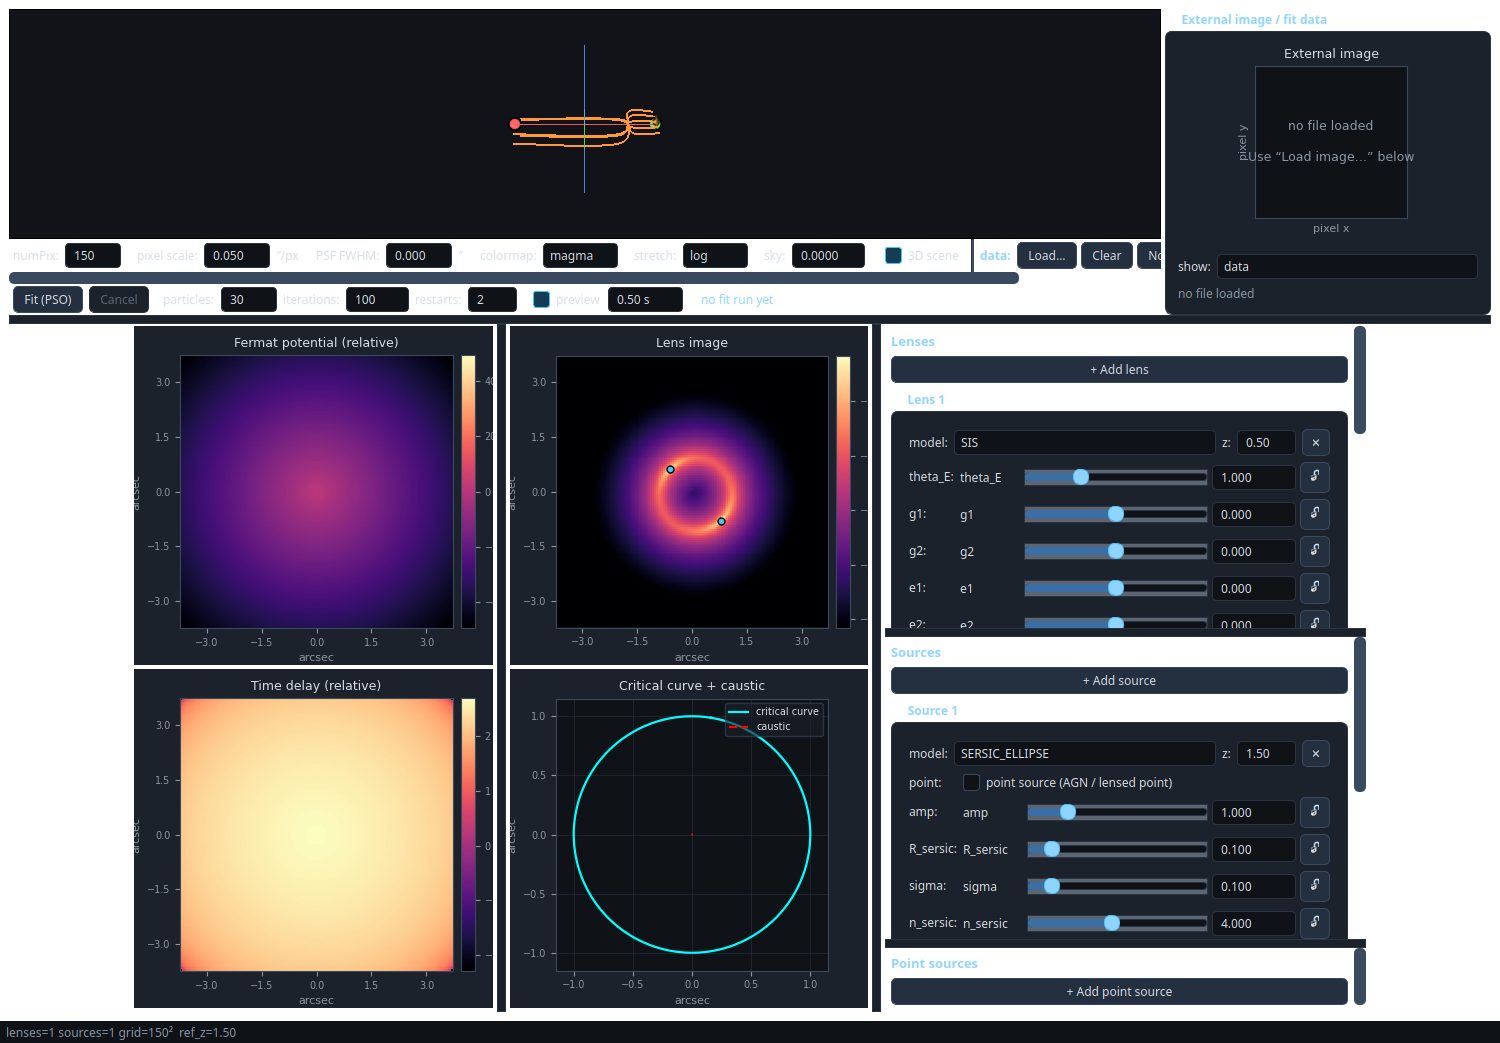
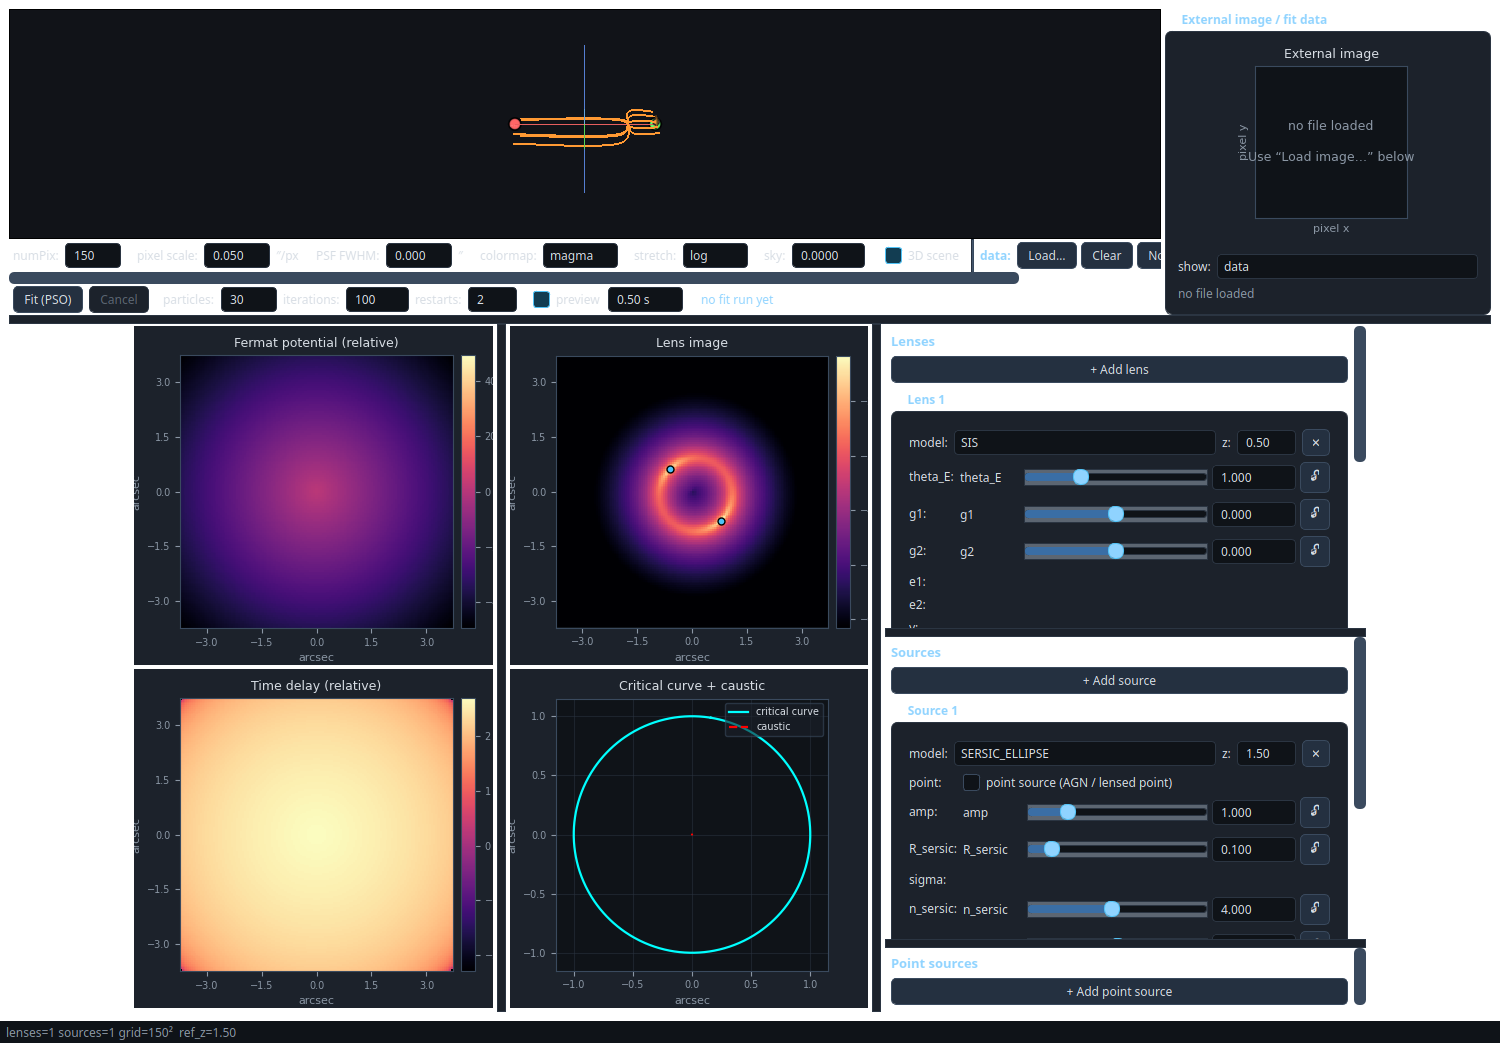
UI: show only the sliders a given model uses
- lensing_calc: lens_param_names()/source_param_names() authoritative mappings
  (external shear + centroid always shown; profile params follow the model)
- Lens/Source cards hide irrelevant sliders on model switch (values preserved);
  deflector-light sliders follow the light profile and hide when NONE
- point-source card hides the unused amplitude slider instead of greying it
- tests: mapping + visibility toggling; full suite 140 passing

diff --git a/app/controls.py b/app/controls.py
@@ -312,15 +312,33 @@ class _LensCard(_EntryCard):
         self.add_slider("light_e1", "L e1", -0.8, 0.8, lens.light_e1, 2)
         self.add_slider("light_e2", "L e2", -0.8, 0.8, lens.light_e2, 2)
 
-        self._light_combo.currentTextChanged.connect(self._sync_light_enabled)
-        self._sync_light_enabled()
+        self._light_combo.currentTextChanged.connect(self._sync_visibility)
+        self._model_combo.currentTextChanged.connect(self._sync_visibility)
+        self._sync_visibility()
 
-    def _sync_light_enabled(self, *a):
-        """Grey out the light sliders when the lens emits no light."""
-        on = self._light_combo.currentText() != "NONE"
-        for name in ("light_amp", "light_R_sersic", "light_n_sersic",
-                     "light_sigma", "light_e1", "light_e2"):
-            self.sliders[name].setEnabled(on)
+    def _light_visible_names(self) -> set:
+        """Light sliders relevant to the current lens-light model."""
+        lm = self._light_combo.currentText()
+        if lm == "NONE":
+            return set()
+        if lm.startswith("GAUSSIAN"):
+            vis = {"light_amp", "light_sigma"}
+            if lm == "GAUSSIAN_ELLIPSE":
+                vis |= {"light_e1", "light_e2"}
+        else:  # SERSIC / SERSIC_ELLIPSE
+            vis = {"light_amp", "light_R_sersic", "light_n_sersic"}
+            if lm == "SERSIC_ELLIPSE":
+                vis |= {"light_e1", "light_e2"}
+        return vis
+
+    def _sync_visibility(self, *a):
+        """Show only the sliders that the current lens / light model uses."""
+        mass = lc.lens_param_names(self.model())
+        light = self._light_visible_names()
+        for name, s in self.sliders.items():
+            s.setVisible(name in mass or name in light)
+            if name.startswith("light_"):
+                s.setEnabled(name in light)   # hidden *and* inert when unused
 
     def light_model(self) -> str:
         return self._light_combo.currentText()
@@ -377,6 +395,15 @@ class _SourceCard(_EntryCard):
         self.add_slider("gamma", "γ", 0.1, 4.0, source.gamma, 2)
         self.add_slider("center_x", "x", -2.0, 2.0, source.center_x, 2)
         self.add_slider("center_y", "y", -2.0, 2.0, source.center_y, 2)
+
+        # Show only the sliders relevant to the current source profile.
+        self._model_combo.currentTextChanged.connect(self._sync_visibility)
+        self._sync_visibility()
+
+    def _sync_visibility(self, *a):
+        names = lc.source_param_names(self.model())
+        for name, s in self.sliders.items():
+            s.setVisible(name in names)
 
     def to_params(self) -> lc.SourceParams:
         s = self.sliders
@@ -474,8 +501,8 @@ class _PointSourceCard(_EntryCard):
 
     def _sync_model(self, *a):
         lensed = self._model_combo.currentText() == "LENSED"
-        self.sliders["source_amp"].setEnabled(lensed)
-        self.sliders["point_amp"].setEnabled(not lensed)
+        self.sliders["source_amp"].setVisible(lensed)
+        self.sliders["point_amp"].setVisible(not lensed)
 
     def to_params(self) -> lc.PointSourceParams:
         s = self.sliders

diff --git a/tests/test_ui.py b/tests/test_ui.py
@@ -1173,3 +1173,62 @@ def test_entry_cards_auto_numbered(qapp):
     assert [c.title() for c in pp._cards] == ["Point source 1"]
 
     lp.deleteLater(); sp.deleteLater(); pp.deleteLater()
+
+
+def test_cards_show_only_params_for_selected_model(qapp):
+    """Switching the model hides the irrelevant sliders; switching back restores
+    them and their values are preserved."""
+    from app.controls import LensesPanel, SourcesPanel
+    from app import lensing_calc as lc
+
+    lp = LensesPanel()
+    lens = lp._cards[0]
+    lp.show(); qapp.processEvents()   # offscreen: isVisible needs a shown ancestor
+    lens.sliders["theta_E"].set_value(2.0)
+    lens._model_combo.setCurrentText("NFW")
+    assert not lens.sliders["theta_E"].isVisible()
+    assert not lens.sliders["e1"].isVisible()
+    assert lens.sliders["Rs"].isVisible()
+    assert lens.sliders["alpha_Rs"].isVisible()
+    assert lens.sliders["gamma1"].isVisible()        # external shear stays
+
+    lens._model_combo.setCurrentText("SIS_TRUNCATED")
+    assert lens.sliders["Rs"].isVisible() is False
+    assert lens.sliders["r_trunc"].isVisible()
+    assert lens.sliders["theta_E"].isVisible()       # back where it matters
+
+    # and the value that lived on the hidden slider is preserved
+    assert lens.sliders["theta_E"].value() == 2.0
+
+    sp = SourcesPanel()
+    src = sp._cards[0]
+    sp.show(); qapp.processEvents()
+    src._model_combo.setCurrentText("GAUSSIAN")
+    assert src.sliders["sigma"].isVisible()
+    assert not src.sliders["R_sersic"].isVisible()
+    assert not src.sliders["e1"].isVisible()
+    src._model_combo.setCurrentText("CORE_SERSIC")
+    assert src.sliders["R_sersic"].isVisible()
+    assert src.sliders["Rb"].isVisible()
+    assert src.sliders["gamma"].isVisible()
+    lp.deleteLater(); sp.deleteLater()
+
+
+def test_lens_light_sliders_follow_light_model(qapp):
+    from app.controls import LensesPanel
+
+    lp = LensesPanel()
+    lens = lp._cards[0]
+    lp.show(); qapp.processEvents()
+    lens._light_combo.setCurrentText("GAUSSIAN")
+    assert lens.sliders["light_sigma"].isVisible()
+    assert not lens.sliders["light_R_sersic"].isVisible()
+    assert not lens.sliders["light_e1"].isVisible()
+    lens._light_combo.setCurrentText("SERSIC_ELLIPSE")
+    assert lens.sliders["light_R_sersic"].isVisible()
+    assert lens.sliders["light_e1"].isVisible()
+    assert not lens.sliders["light_sigma"].isVisible()
+    lens._light_combo.setCurrentText("NONE")
+    assert not lens.sliders["light_sigma"].isVisible()
+    assert not lens.sliders["light_R_sersic"].isVisible()
+    lp.deleteLater()

diff --git a/tests/test_lensing_calc.py b/tests/test_lensing_calc.py
@@ -350,3 +350,42 @@ def test_point_source_renders_with_delta_psf():
     )
     img = lc.render_image(cfg)
     assert img.max() > 0 and img.sum() > 0
+
+
+def test_lens_param_names_follow_model():
+    assert lc.lens_param_names("SIS") == {"theta_E", "gamma1", "gamma2",
+                                          "center_x", "center_y"}
+    assert lc.lens_param_names("SIE") == {"theta_E", "e1", "e2", "gamma1",
+                                          "gamma2", "center_x", "center_y"}
+    assert lc.lens_param_names("SPEP") == {"theta_E", "gamma", "e1", "e2",
+                                           "gamma1", "gamma2", "center_x",
+                                           "center_y"}
+    assert lc.lens_param_names("NFW") == {"Rs", "alpha_Rs", "gamma1", "gamma2",
+                                          "center_x", "center_y"}
+    assert lc.lens_param_names("SIS_TRUNCATED") == {"theta_E", "r_trunc",
+                                                    "gamma1", "gamma2",
+                                                    "center_x", "center_y"}
+    # every profile keeps the always-on controls
+    for m in ("SIS", "SIE", "SPEP", "NFW", "SIS_TRUNCATED"):
+        assert {"center_x", "center_y", "gamma1", "gamma2"} <= lc.lens_param_names(m)
+
+
+def test_source_param_names_follow_model():
+    assert lc.source_param_names("GAUSSIAN") == {"amp", "sigma", "center_x",
+                                                 "center_y"}
+    assert lc.source_param_names("GAUSSIAN_ELLIPSE") == {"amp", "sigma", "e1",
+                                                         "e2", "center_x",
+                                                         "center_y"}
+    assert lc.source_param_names("SERSIC") == {"amp", "R_sersic", "n_sersic",
+                                               "center_x", "center_y"}
+    assert lc.source_param_names("SERSIC_ELLIPSE") == {"amp", "R_sersic",
+                                                       "n_sersic", "e1", "e2",
+                                                       "center_x", "center_y"}
+    assert lc.source_param_names("HERNQUIST") == {"amp", "Rs", "center_x",
+                                                  "center_y"}
+    assert lc.source_param_names("CORE_SERSIC") == {"amp", "R_sersic", "Rb",
+                                                    "n_sersic", "gamma", "e1",
+                                                    "e2", "center_x", "center_y"}
+    # mutually exclusive families
+    assert "sigma" not in lc.source_param_names("SERSIC")
+    assert "R_sersic" not in lc.source_param_names("GAUSSIAN")

diff --git a/app/lensing_calc.py b/app/lensing_calc.py
@@ -270,6 +270,41 @@ _MODEL_PROFILE = {
     "SIS_TRUNCATED": ("SIS_TRUNCATED", ["theta_E", "r_trunc"]),
 }
 
+# Controls that always matter, whatever the profile: the centroid and—for a
+# lens—the external shear terms.
+_LENS_ALWAYS_NAMES = {"gamma1", "gamma2", "center_x", "center_y"}
+_SOURCE_ALWAYS_NAMES = {"amp", "center_x", "center_y"}
+
+
+def lens_param_names(model: str) -> set:
+    """Slider names that are physically relevant for a lens ``model``.
+
+    External shear (gamma1/gamma2) and the centroid apply to every profile, so
+    they are always included; only the profile-specific parameters vary with the
+    model (e.g. NFW shows R_s, alpha_Rs and no theta_E/ellipticity).
+    """
+    _, params = _MODEL_PROFILE.get(model, _MODEL_PROFILE["SIS"])
+    return set(params) | _LENS_ALWAYS_NAMES
+
+
+def source_param_names(model: str) -> set:
+    """Slider names physically relevant for a source light ``model``."""
+    if model not in SOURCE_MODELS:
+        model = "SERSIC_ELLIPSE"
+    if model == "CORE_SERSIC":
+        base = {"amp", "R_sersic", "Rb", "n_sersic", "gamma", "e1", "e2"}
+    elif model.startswith("SERSIC"):
+        base = {"amp", "R_sersic", "n_sersic"}
+        if model == "SERSIC_ELLIPSE":
+            base |= {"e1", "e2"}
+    elif model == "HERNQUIST":
+        base = {"amp", "Rs"}
+    else:  # GAUSSIAN / GAUSSIAN_ELLIPSE
+        base = {"amp", "sigma"}
+        if model == "GAUSSIAN_ELLIPSE":
+            base |= {"e1", "e2"}
+    return base | _SOURCE_ALWAYS_NAMES
+
 
 def available_lens_models() -> list:
     """Lens models that can actually be used in this environment.

diff --git a/README.md b/README.md
@@ -69,6 +69,12 @@ Single-window layout:
     Entry cards are **auto-numbered** (`Lens 1`, `Lens 2`, …; likewise
     `Source 1`, … and `Point source 1`, …) and renumbered on add/remove — the
     point-source "attach to Source N" dropdown follows the same 1-based labels.
+    Each card shows **only the sliders its model actually uses** (e.g. NFW gives
+    `R_s`, `alpha_Rs` with no theta_E/ellipticity; `SIS_TRUNCATED` adds `r_trunc`;
+    external shear and the centroid stay for every model), and the deflector-light
+    sliders follow the chosen light profile (GAUSSIAN vs SERSIC), hidden while the
+    light model is `NONE`. Switching models never loses a value — hidden sliders
+    keep it and come back on return.
   - **Deflector (lens galaxy) light per lens**: a light-model selector
     (`NONE` / `SERSIC_ELLIPSE` / `SERSIC` / `GAUSSIAN_ELLIPSE` / `GAUSSIAN`) with
     its own amplitude, size, Sersic index, ellipticity and Gaussian sigma. This
